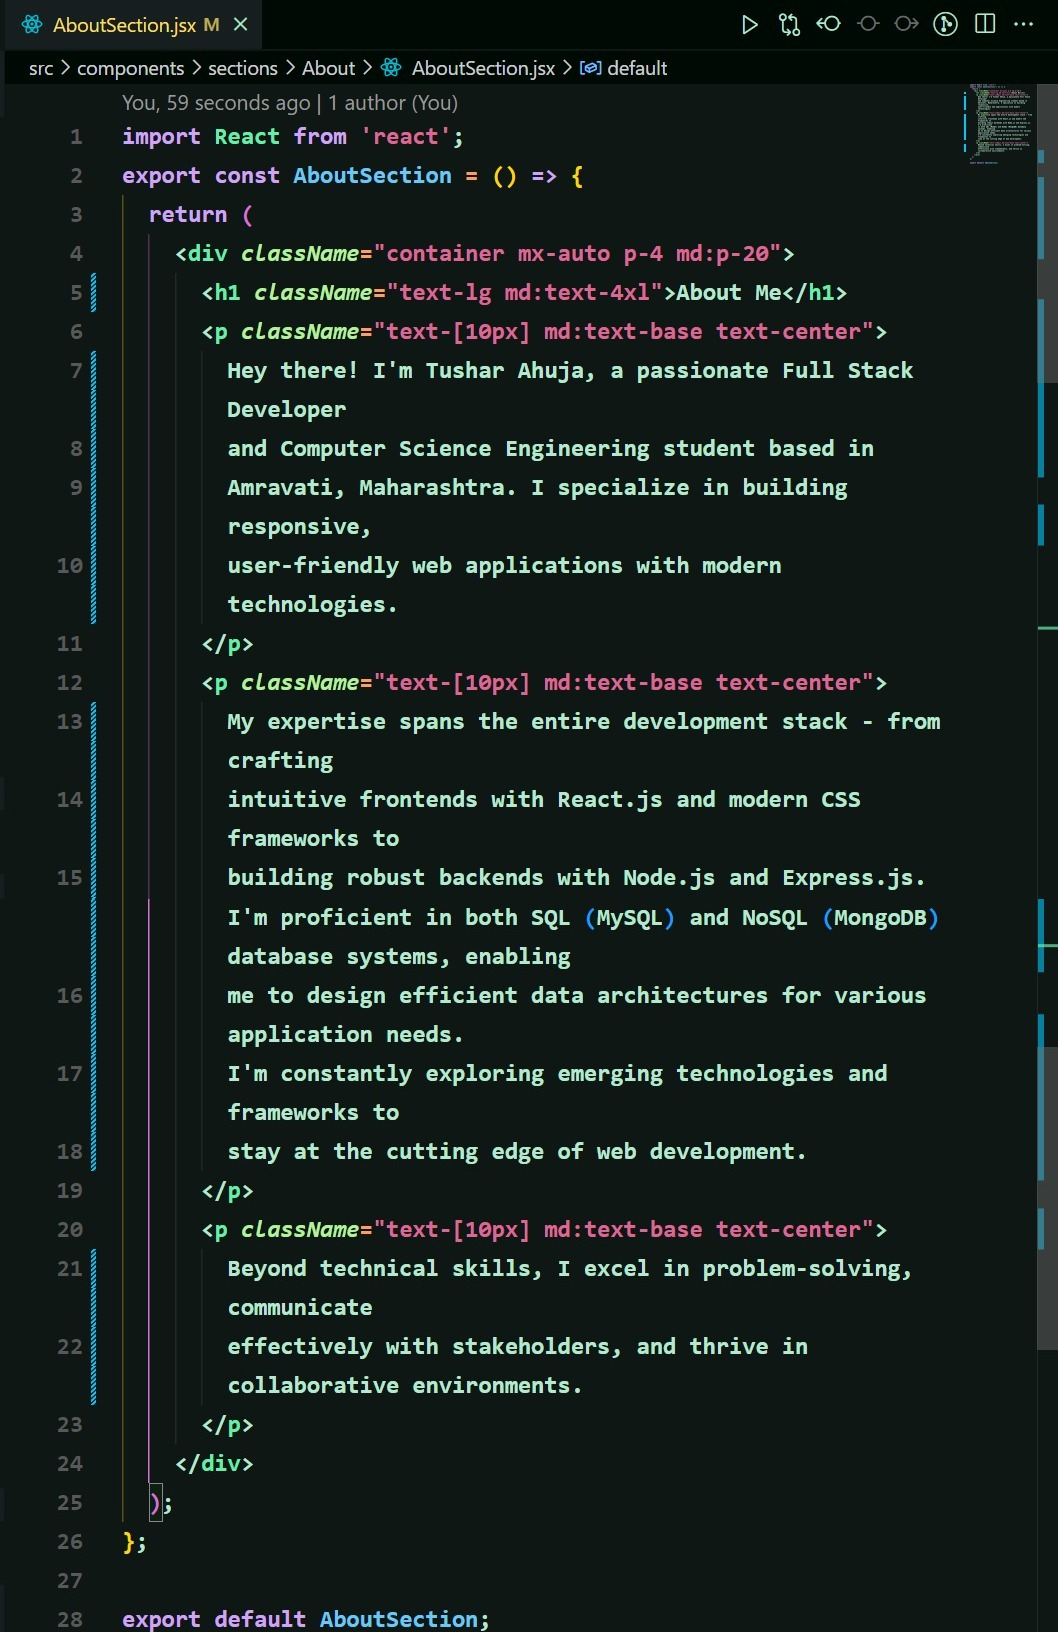
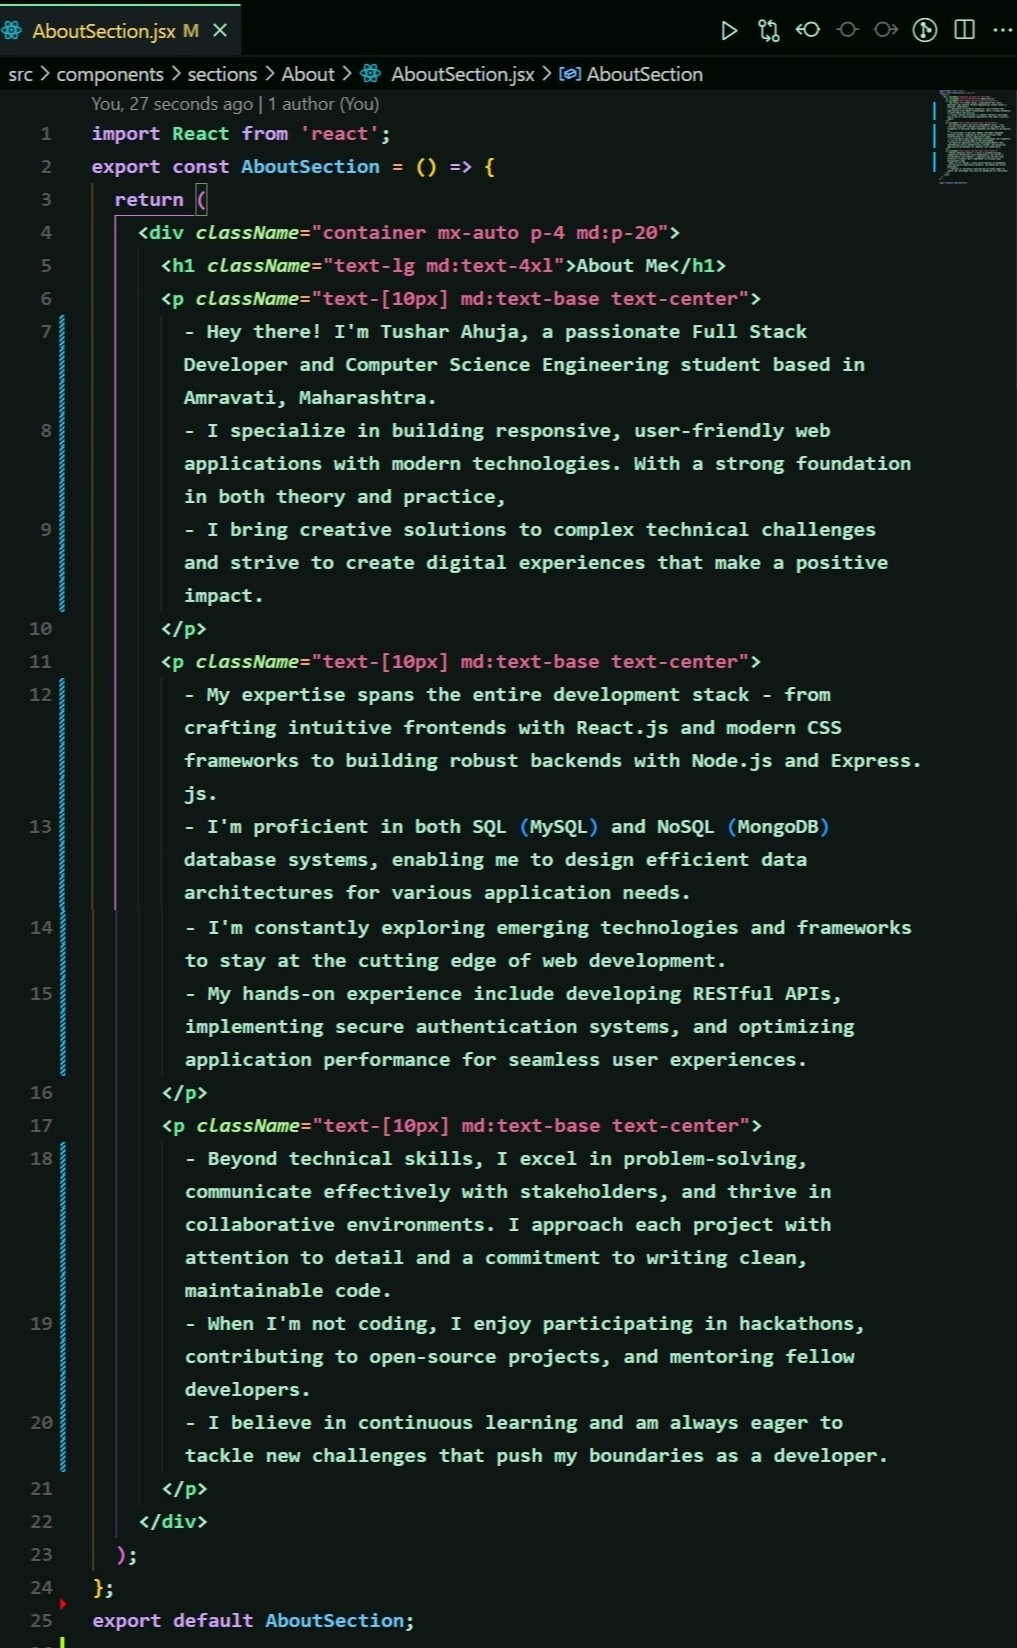
done

diff --git a/src/components/sections/About/AboutSection.jsx b/src/components/sections/About/AboutSection.jsx
@@ -4,21 +4,19 @@ export const AboutSection = () => {
     <div className="container mx-auto p-4 md:p-20">
       <h1 className="text-lg md:text-4xl">About Me</h1>
       <p className="text-[10px] md:text-base text-center">
-        Hey there! I'm Tushar Ahuja, a passionate Full Stack Developer and Computer Science Engineering 
-        student based in Amravati, Maharashtra. 
-        I specialize in building responsive, user-friendly web applications with modern technologies.
+        - Hey there! I'm Tushar Ahuja, a passionate Full Stack Developer and Computer Science Engineering student based in Amravati, Maharashtra. 
+        - I specialize in building responsive, user-friendly web applications with modern technologies. With a strong foundation in both theory and practice, I bring creative solutions to complex technical challenges and strive to create digital experiences that make a positive impact.
       </p>
       <p className="text-[10px] md:text-base text-center">
-        My expertise spans the entire development stack - from crafting intuitive frontends with React.js 
-        and modern CSS frameworks to building robust backends with Node.js and Express.js. 
-        I'm proficient in both SQL (MySQL) and NoSQL (MongoDB) database systems, enabling me to design 
-        efficient data architectures for various application needs. 
-        I'm constantly exploring emerging technologies and frameworks to stay at the cutting edge of web 
-        development.
+        - My expertise spans the entire development stack - from crafting intuitive frontends with React.js and modern CSS frameworks to building robust backends with Node.js and Express.js. 
+        - I'm proficient in both SQL (MySQL) and NoSQL (MongoDB) database systems, enabling me to design efficient data architectures for various application needs. 
+        - I'm constantly exploring emerging technologies and frameworks to stay at the cutting edge of web development. 
+        - My hands-on experience include developing RESTful APIs, implementing secure authentication systems, and optimizing application performance for seamless user experiences.
       </p>
       <p className="text-[10px] md:text-base text-center">
-        Beyond technical skills, I excel in problem-solving, communicate effectively with stakeholders, 
-        and thrive in collaborative environments.
+        - Beyond technical skills, I excel in problem-solving, communicate effectively with stakeholders, and thrive in collaborative environments. I approach each project with attention to detail and a commitment to writing clean, maintainable code.
+        - When I'm not coding, I enjoy participating in hackathons, contributing to open-source projects, and mentoring fellow developers.
+        - I believe in continuous learning and am always eager to tackle new challenges that push my boundaries as a developer.
       </p>
     </div>
   );

diff --git a/src/components/sections/About/ContainerScroll.jsx b/src/components/sections/About/ContainerScroll.jsx
@@ -38,12 +38,12 @@ export const ContainerScroll = ({ titleComponent, children }) => {
 
   return (
     <div
-      className="h-[45rem] md:h-[65rem] flex flex-col items-center justify-center relative p-0 pt-20 md:p-10" // Added pt-20 for mobile only
+      className="h-[45rem] md:h-[80rem] flex flex-col items-center justify-center relative p-0" // Removed pt-20 to eliminate extra space
       ref={containerRef}
     >
       <Header translate={translate} titleComponent={titleComponent} />
       <div
-        className="w-full relative flex items-center justify-center -mt-16 md:-mt-20"
+        className="w-full relative flex items-center justify-center"
         style={{
           perspective: "1000px",
         }}
@@ -78,9 +78,9 @@ export const Card = ({ rotate, scale, translate, children }) => {
         boxShadow:
           "0 0 #0000004d, 0 9px 20px #0000004a, 0 37px 37px #00000042, 0 84px 50px #00000026, 0 149px 60px #0000000a, 0 233px 65px #00000003",
       }}
-      className="max-w-5xl -mt-12 mx-auto h-[35rem] md:h-[40rem] w-[98vw] md:w-full border-4 border-black p-1 md:p-6 bg-[#222222] rounded-[30px] shadow-2xl" // Increased mobile height
+      className="max-w-5xl mx-auto h-[35rem] md:h-[60rem] w-[98vw] md:w-full border-4 border-black p-1 md:p-6 bg-[#222222] rounded-[30px] shadow-2xl" // Kept borders intact
     >
-      <div className="h-full w-full overflow-hidden rounded-2xl bg-black dark:bg-zinc-900 md:rounded-2xl p-1 md:p-4 border-4 border-lightblue dark:border-gray-600">
+      <div className="h-full w-full overflow-hidden rounded-2xl bg-black dark:bg-zinc-900 border-4 border-lightblue dark:border-gray-600">
         {children}
       </div>
     </motion.div>

diff --git a/src/components/sections/About/AboutContent.jsx b/src/components/sections/About/AboutContent.jsx
@@ -7,13 +7,13 @@ const AboutContent = () => {
     const checkMobile = () => {
       setIsMobile(window.innerWidth <= 768);
     };
-    
+
     // Check on initial render
     checkMobile();
-    
+
     // Add event listener for window resize
     window.addEventListener("resize", checkMobile);
-    
+
     // Cleanup
     return () => {
       window.removeEventListener("resize", checkMobile);
@@ -21,15 +21,11 @@ const AboutContent = () => {
   }, []);
 
   return (
-    <div className="w-full h-full flex items-center justify-center">
+    <div className="w-full h-full flex items-center justify-center overflow-hidden">
       <img
-        src={isMobile ? "/images/aboutme2.jpg" : "/images/aboutme.png"}
+        src={isMobile ? "/images/aboutme2.jpg" : "/images/aboutme.jpg"}
         alt="About Me"
-        className={`w-full h-full rounded-xl ${
-          isMobile 
-            ? "object-cover scale-105 transform" // Reduced from scale-110 to scale-105
-            : "object-cover transform md:rotate-0 md:scale-100"
-        }`}
+        className="w-full h-full object-cover transform scale-96" // Slight zoom out with scale-96
         draggable={false}
       />
     </div>
